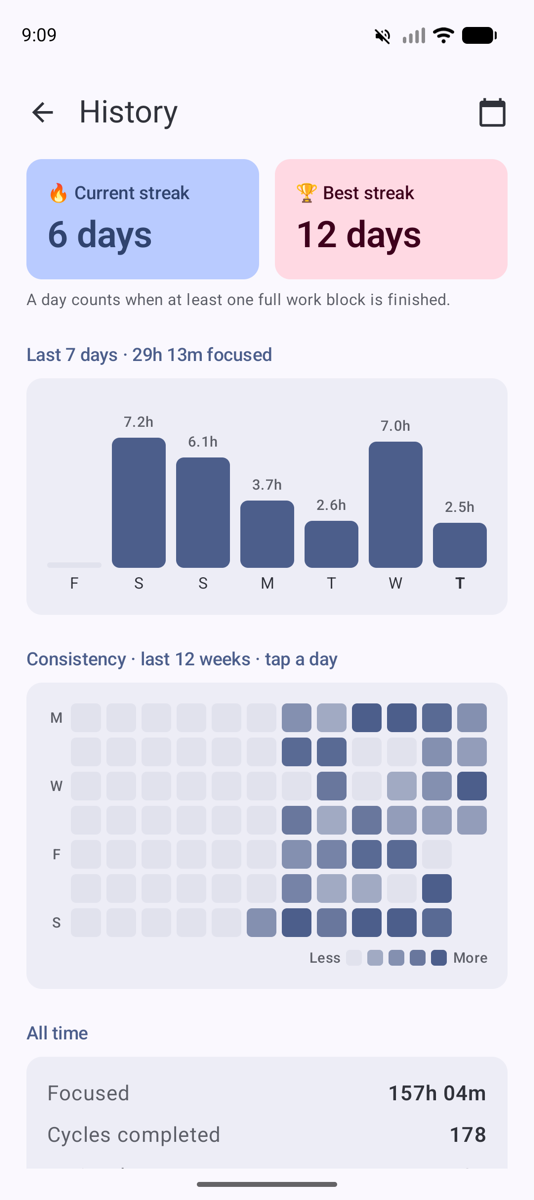
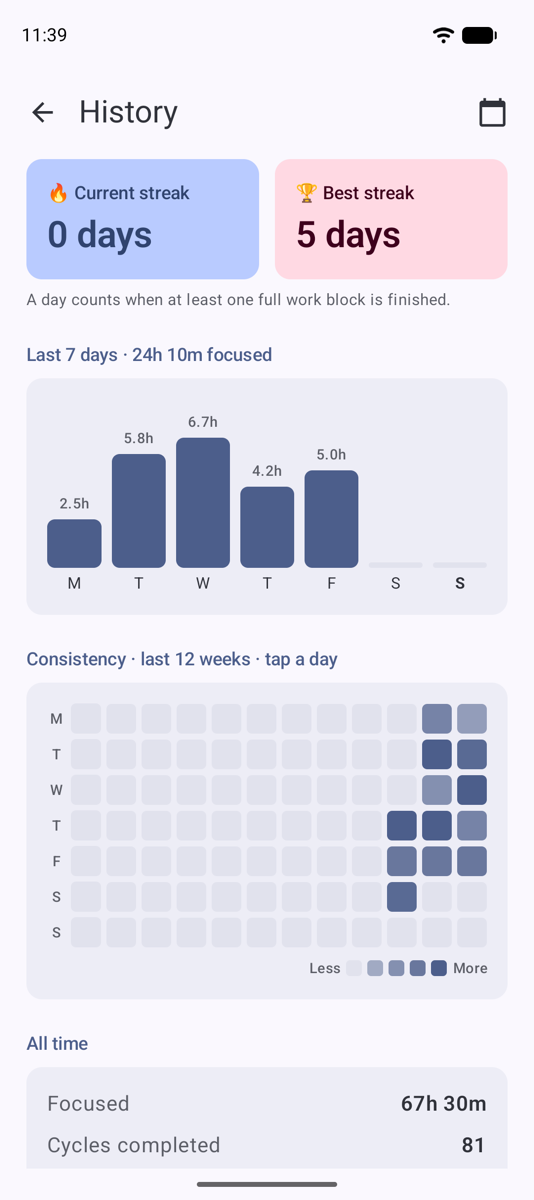
docs: README screenshots for library, share, start at, End dialog, settings pages, Toggl and activities; Toggl card heading

diff --git a/app/src/main/java/com/shivam1410/intervaltimer/TogglUi.kt b/app/src/main/java/com/shivam1410/intervaltimer/TogglUi.kt
@@ -35,7 +35,7 @@ fun TogglSection() {
     val status by TogglSync.status.collectAsState()
     val cs = MaterialTheme.colorScheme
 
-    Section("Toggl Track") {
+    Section("Connection") {
         if (!connected) {
             var token by remember { mutableStateOf("") }
             Text("Work blocks and break activities start and stop Toggl timers. Find your API token at track.toggl.com/profile.", style = MaterialTheme.typography.bodySmall, color = cs.onSurfaceVariant)

diff --git a/README.md b/README.md
@@ -7,9 +7,10 @@ morning, put the phone away, and it runs **8 × (50 min work + 10 min break)** o
 - **Home is quick**: Workday 50:10 · Deep 90:15 · Pomodoro 25:5 · Custom (only Custom shows the
   schedule controls), plus **quick timers** for one-off sessions — NSDR, Sketch, Stretch, Exercise,
   Walk, Power nap, Breathing — tapping one counts down 5-4-3-2-1-Start first
-- **My library**: your own quick exercises on home: add a YouTube / YouTube Music link with a title,
-  tag and length; tap to run it as a quick timer with a Play video button, long-press to edit or
-  delete. Synced to Drive (`library.json`) with the rest of your history
+- **My library**: your own quick exercises on home, grouped by tag: add a YouTube / YouTube Music
+  link or pick an audio / video file; the title and length fill themselves in (from YouTube, or the
+  file's duration) and stay editable; the tag is a dropdown of your Toggl and used tags. Tap to run it
+  as a quick timer, long-press to edit or delete. Synced to Drive (`library.json`)
   - **Share into it**: in YouTube or YouTube Music tap Share -> Interval Timer; the link and its title
     are filled in, you pick a tag and length
   - **MP3 / MP4 files**: share one from Files, Downloads or any app -> Interval Timer. It's kept in the app
@@ -26,12 +27,14 @@ morning, put the phone away, and it runs **8 × (50 min work + 10 min break)** o
   once per 30 min per app. Needs Usage access; for YouTube also Notification access, used only to see
   YouTube's player (on a sideloaded install: App info › ⋮ › Allow restricted settings first). No
   background loop: one inexact alarm set for when the limit could next be reached
-- **Start at** a whole hour: pick one of the next three hours on home and the workday starts by
-  itself then, once (the daily 10:00 reminder stays a notification; nothing auto-starts every day)
+- **Start at** a whole hour: the 5th row of the Custom schedule (Now or one of the next four hours);
+  the workday starts by itself then, once. Home shows the armed start with Cancel (the daily 10:00
+  reminder stays a notification; nothing auto-starts every day)
 - **Days this month**: the pill next to your photo counts the days you used the app this month;
   tap it for History
-- **Settings** (tap your photo): Google account & Drive sync, gong / vibration / volume, version
-  and update check
+- **Settings** (tap your photo): three pages — **Profile** (account, Drive sync, app updates,
+  sign out), **Notifications** (gong / vibration / volume, lock screen, daily reminder, nudges) and
+  **Toggl Track**
 - **Breaks start with a 2-min prepare phase**; on the break screen you choose the activity
   and can make it a **long break** (+10 min each tap, also from the notification); the rest of
   the day shifts later. Activities have their own cues:
@@ -53,9 +56,12 @@ morning, put the phone away, and it runs **8 × (50 min work + 10 min break)** o
   **Next** when you're done (overtime counts as work). Prepare still flows into the activity
 - **Lock-screen page** at every phase change: black-and-white, display only, closes itself after ~12 s
 - **Restart-proof**: phases are absolute timestamps, rebuilt after reboot
-- **End and Save / Discard**: End and Save keeps what you've done in History; Discard throws the
-  session away. Stretches under a minute (from skipping through unused slots) don't show in the day view
-- **History & streaks**: current/best streak, last-7-days focus chart, 12-week consistency heatmap,
+- **End and Save / Discard**: one row — Discard (left), Keep going, End and Save (right). End and
+  Save keeps what you've done in History; Discard throws the session away. Stretches under a minute (from skipping through unused slots) don't show in the day view
+- **Activities**: every break stretch remembers its activity, so a day lists "😌 NSDR 20 min" and History
+  shows time per activity (library items included) over the last 30 days. Ambient sounds played
+  from home are logged as their own line, not as break time
+- **History & streaks**: current/best streak, last-7-days focus chart, 12-week consistency heatmap (square cells, every weekday labelled),
   a month calendar, all-time totals. Tap any day for **how the day went**: a
   work/break wave over the hours (pauses as gaps, overtime in its own colour) and every stretch. Time is what you actually spent (skips and pauses don't inflate it); a day
   counts toward the streak once one full work block is finished
@@ -67,21 +73,29 @@ morning, put the phone away, and it runs **8 × (50 min work + 10 min break)** o
 
 ## Screenshots
 
-| Home + quick timers | Quick-timer countdown | Work + focus music | Break · pick an activity |
+| Home + quick timers | My library | Add to library (shared link) | Quick-timer countdown |
 |:-:|:-:|:-:|:-:|
-| <img src="docs/screenshots/setup.png" width="200"> | <img src="docs/screenshots/countdown.png" width="200"> | <img src="docs/screenshots/work.png" width="200"> | <img src="docs/screenshots/break-prepare.png" width="200"> |
+| <img src="docs/screenshots/setup.png" width="200"> | <img src="docs/screenshots/library.png" width="200"> | <img src="docs/screenshots/share.png" width="200"> | <img src="docs/screenshots/countdown.png" width="200"> |
+
+| Custom: start at an hour | Work + focus music | Break · pick an activity | End and Save / Discard |
+|:-:|:-:|:-:|:-:|
+| <img src="docs/screenshots/custom-start.png" width="200"> | <img src="docs/screenshots/work.png" width="200"> | <img src="docs/screenshots/break-prepare.png" width="200"> | <img src="docs/screenshots/end.png" width="200"> |
 
 | Overtime: counts up at 0 | Lock screen: time's up | Live Update (Android 16 QPR+) | Custom: type a value |
 |:-:|:-:|:-:|:-:|
 | <img src="docs/screenshots/overtime.png" width="200"> | <img src="docs/screenshots/lock-overtime.png" width="200"> | <img src="docs/screenshots/live-update.png" width="200"> | <img src="docs/screenshots/custom-edit.png" width="200"> |
 
-| Breathing | History (sample data) | Settings | Dark: break |
+| Breathing | History (sample data) | Activities | A day in History (sample data) |
 |:-:|:-:|:-:|:-:|
-| <img src="docs/screenshots/break-activity.png" width="200"> | <img src="docs/screenshots/history.png" width="200"> | <img src="docs/screenshots/settings.png" width="200"> | <img src="docs/screenshots/break-dark.png" width="200"> |
+| <img src="docs/screenshots/break-activity.png" width="200"> | <img src="docs/screenshots/history.png" width="200"> | <img src="docs/screenshots/history-activities.png" width="200"> | <img src="docs/screenshots/history-day.png" width="200"> |
 
-| A day in History (sample data) | Calendar |
-|:-:|:-:|
-| <img src="docs/screenshots/history-day.png" width="200"> | <img src="docs/screenshots/history-calendar.png" width="200"> |
+| Calendar | Settings | Notifications | Toggl Track |
+|:-:|:-:|:-:|:-:|
+| <img src="docs/screenshots/history-calendar.png" width="200"> | <img src="docs/screenshots/settings.png" width="200"> | <img src="docs/screenshots/settings-notifications.png" width="200"> | <img src="docs/screenshots/toggl.png" width="200"> |
+
+| Dark: break |
+|:-:|
+| <img src="docs/screenshots/break-dark.png" width="200"> |
 
 Light and dark follow the system theme, with Material You colours from the wallpaper.
 
